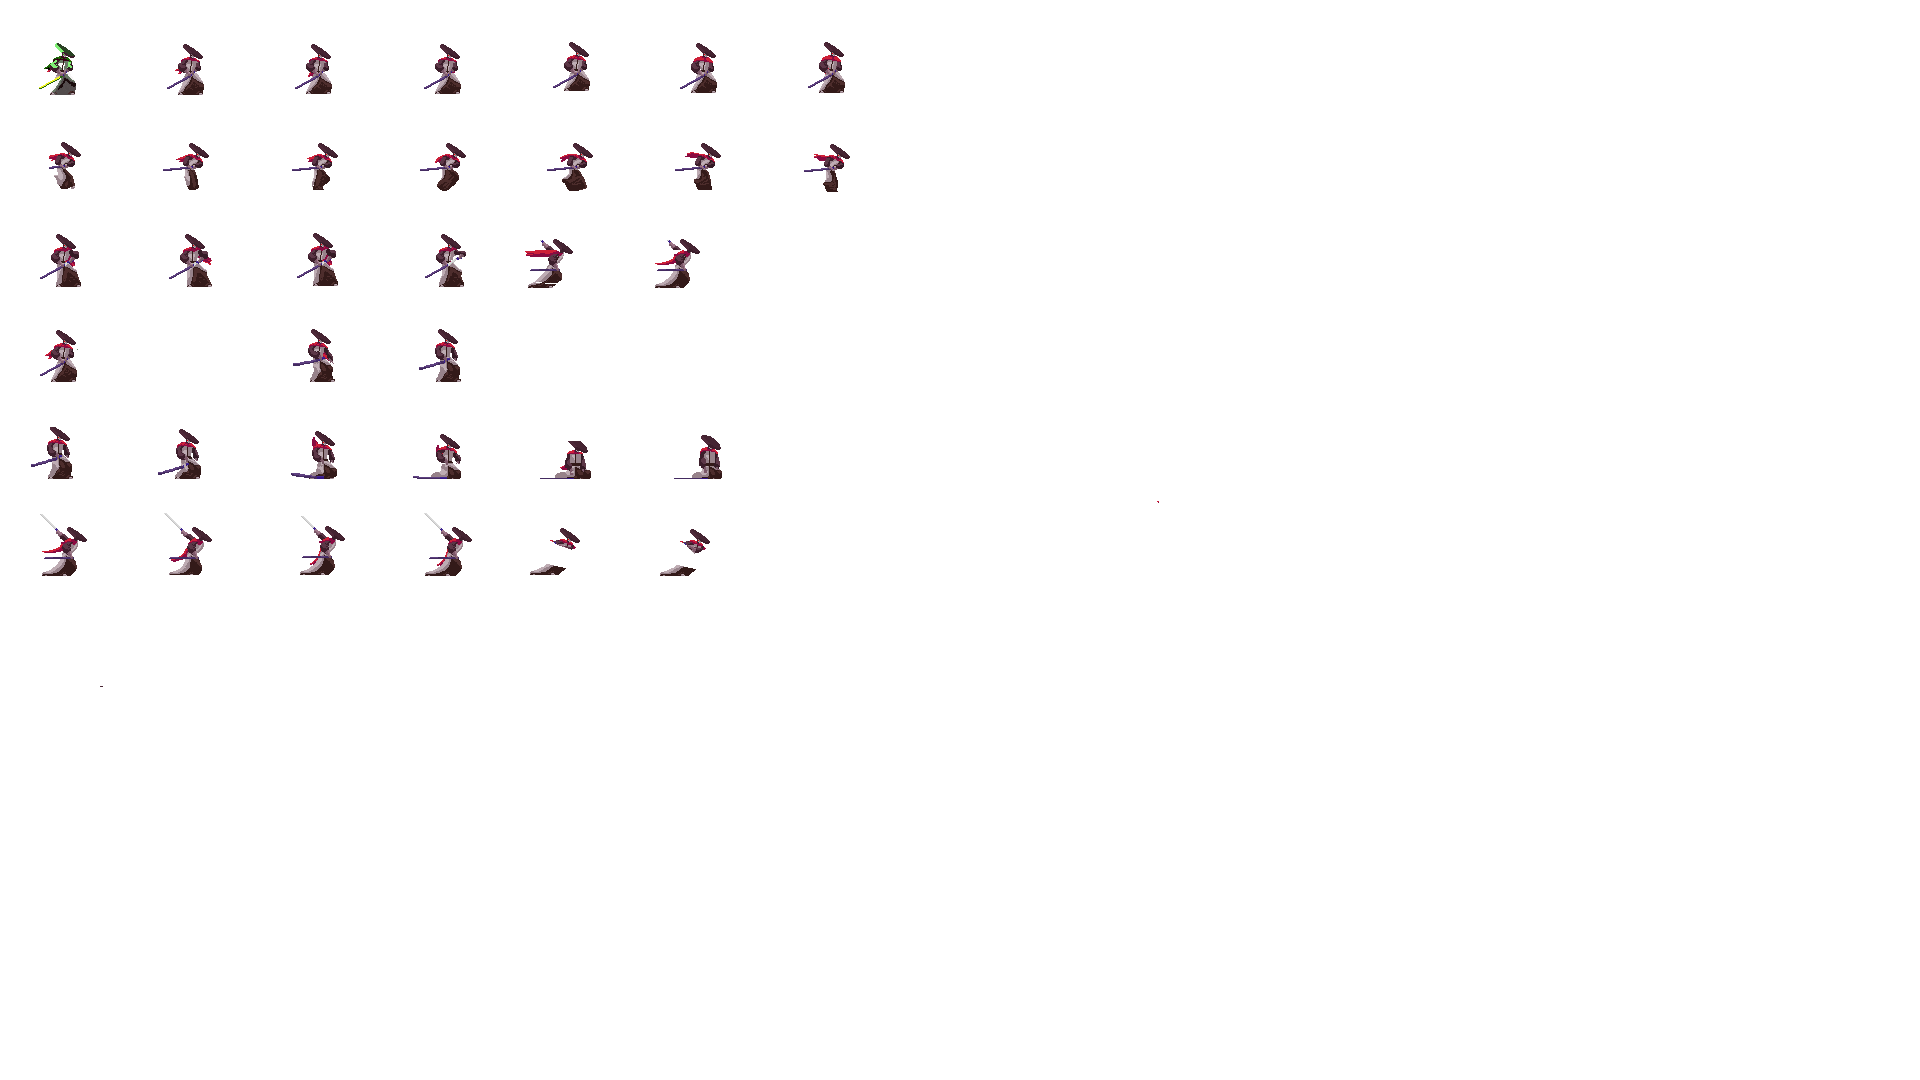
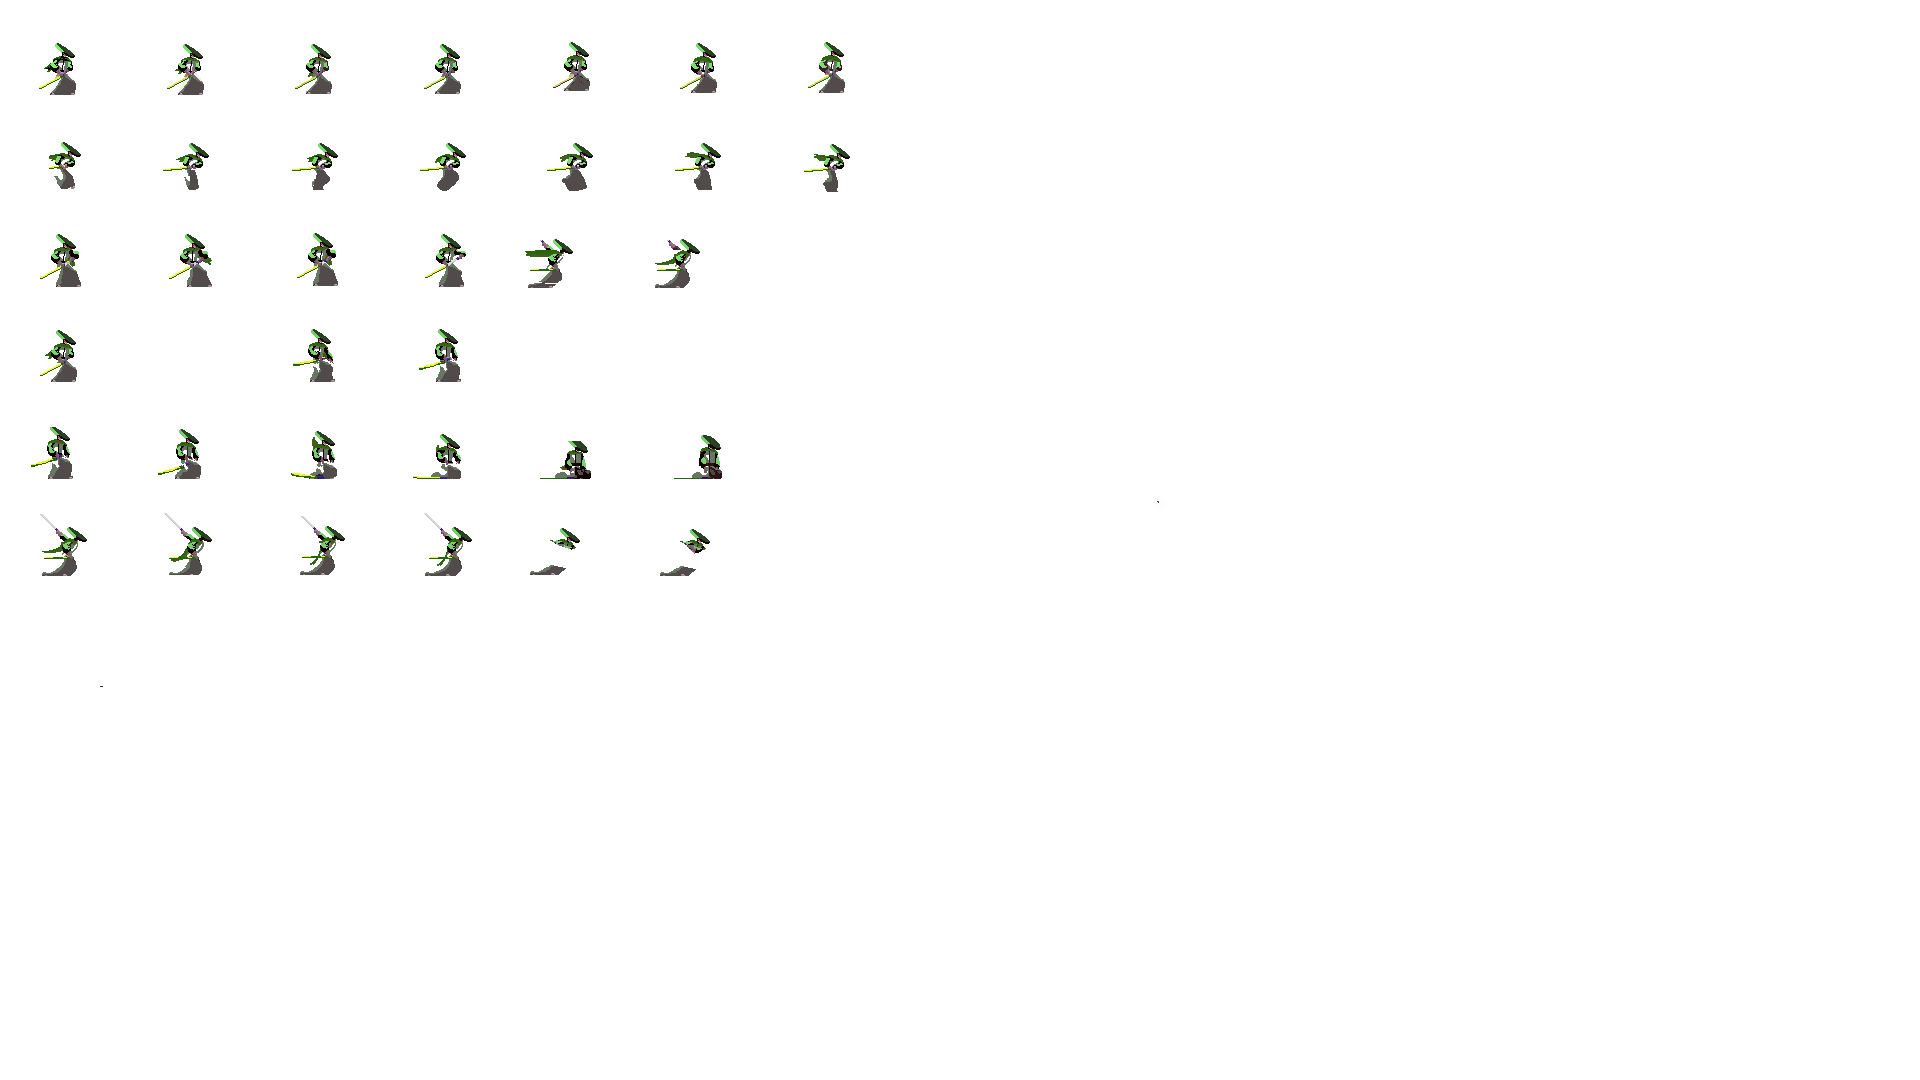
change BOSS2 and add title

diff --git a/src/main/GameWindow.java b/src/main/GameWindow.java
@@ -17,6 +17,8 @@ public class GameWindow  {
         jframe.add(gamePanel);
         jframe.setResizable(false);
         jframe.pack();
+        
+        jframe.setTitle("Black Myth Wukong");
         jframe.setLocationRelativeTo(null);
         jframe.setVisible(true);
         jframe.addWindowFocusListener(new WindowFocusListener() {

diff --git a/src/ui/UI.java b/src/ui/UI.java
@@ -16,9 +16,6 @@ import static utilz.Constants.EnemyConstants.GetNumberMessageBoss;
 import static utilz.Constants.EnemyConstants.*;
 import static utilz.Constants.getIntroText;
 
-	
-	
-
 
 public class UI {
 	
